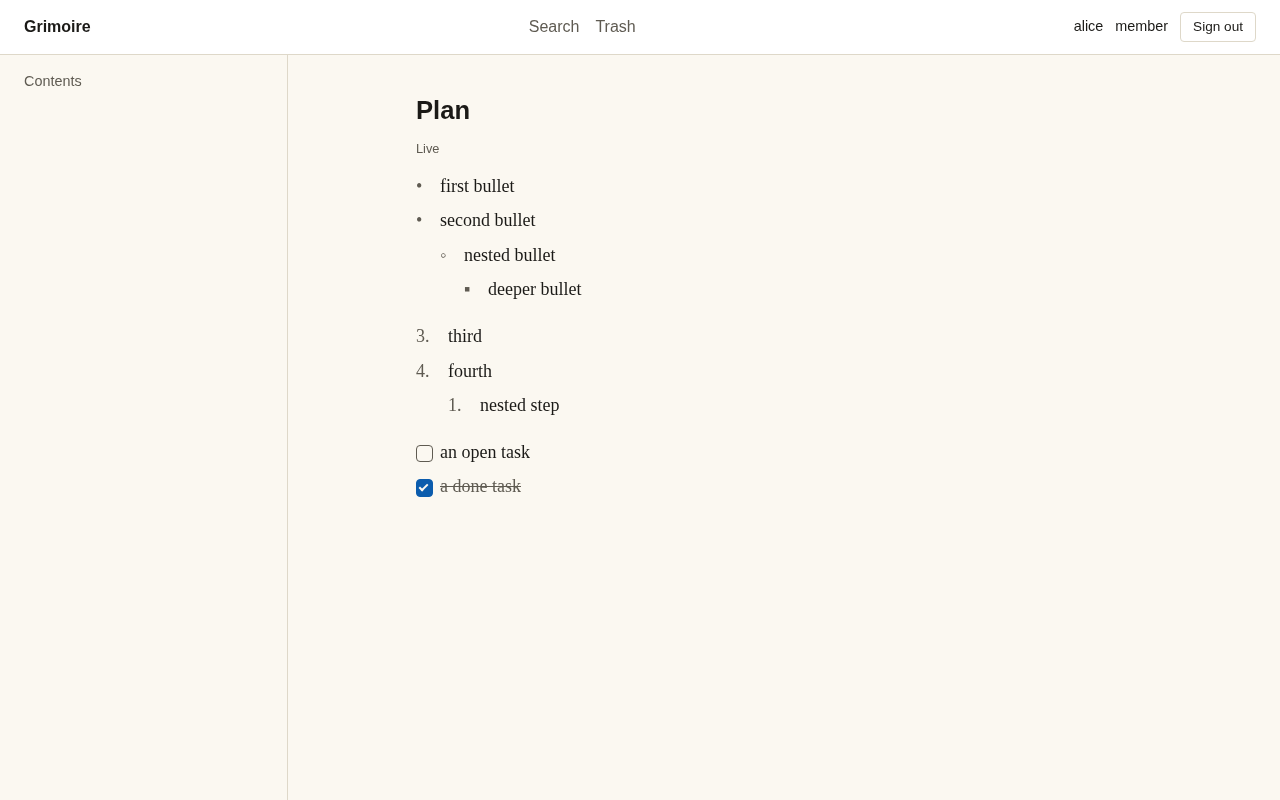
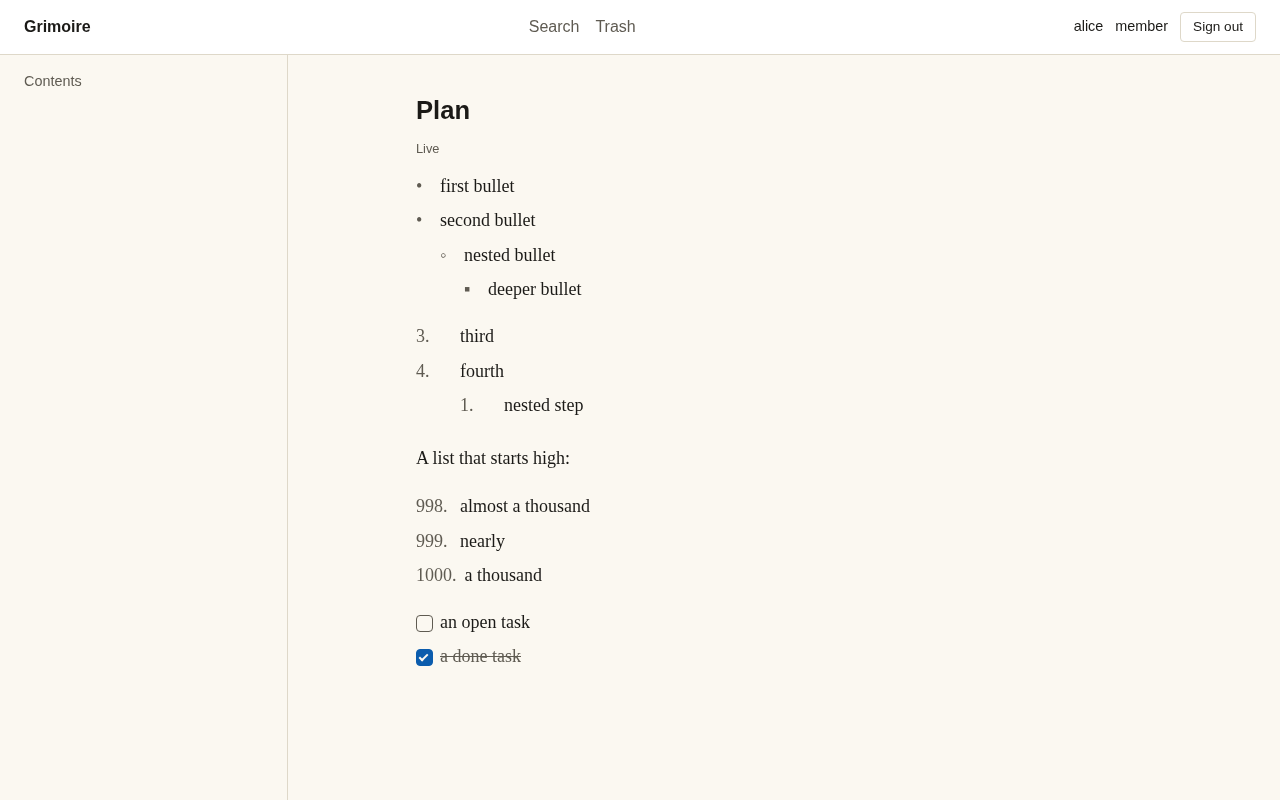
fix(web): give the number of an ordered item room to grow; retake the list screenshots

diff --git a/apps/web/test-e2e/editor/lists.spec.ts b/apps/web/test-e2e/editor/lists.spec.ts
@@ -14,6 +14,12 @@ const MARKDOWN = [
   '4. fourth',
   '   1. nested step',
   '',
+  'A list that starts high:',
+  '',
+  '998. almost a thousand',
+  '999. nearly',
+  '1000. a thousand',
+  '',
   '- [ ] an open task',
   '- [x] a done task',
   '',
@@ -39,6 +45,20 @@ test.describe('lists in the page text', () => {
       const numbered = editor.locator('li[data-list-type="ordered"]');
       expect(await marker(numbered.nth(0))).toBe('"3."');
       expect(await marker(numbered.nth(1))).toBe('"4."');
+      // A long number runs into nothing: the text starts after the whole label.
+      const long = editor.locator('li[data-label="1000."]');
+      expect(await marker(long)).toBe('"1000."');
+      const gap = await long.evaluate((li) => li.firstElementChild!.getBoundingClientRect().left - li.getBoundingClientRect().left);
+      const labelWidth = await long.evaluate((li) => {
+        const probe = document.createElement('span');
+        probe.textContent = getComputedStyle(li, '::before').content.replaceAll('"', '');
+        probe.style.cssText = 'position:absolute;visibility:hidden;white-space:nowrap;font-variant-numeric:tabular-nums';
+        li.append(probe);
+        const width = probe.getBoundingClientRect().width;
+        probe.remove();
+        return width;
+      });
+      expect(gap).toBeGreaterThanOrEqual(labelWidth);
       const tasks = editor.locator('li[data-item-type="task"]');
       expect(await marker(tasks.nth(0))).toBe('""'); // a box, not a bullet
       expect(await style(tasks.nth(0), 'border-top-style')).toBe('solid');

diff --git a/apps/web/src/editor/core/lists.css b/apps/web/src/editor/core/lists.css
@@ -8,7 +8,10 @@
 .page-text li > ul,
 .page-text li > ol { margin: var(--space-1) 0 0; }
 .page-text li { position: relative; padding-inline-start: var(--space-5); margin: 0 0 var(--space-1); }
-.page-text ol > li { padding-inline-start: calc(var(--space-5) + var(--space-2)); }
+/* Ordered items: the marker has a column of its own that is at least wide enough for three digits and grows for a longer number (a list can start at 998). */
+.page-text ol > li { display: grid; grid-template-columns: minmax(2em, max-content) minmax(0, 1fr); column-gap: var(--space-2); padding-inline-start: 0; }
+.page-text ol > li::before { position: static; grid-column: 1; grid-row: 1; white-space: nowrap; }
+.page-text ol > li > * { grid-column: 2; }
 .page-text li > p { margin: 0; line-height: 1.7; }
 .page-text li::before { content: attr(data-label); position: absolute; inset-inline-start: 0; color: var(--muted); font-variant-numeric: tabular-nums; }
 .page-text ul ul > li::before { content: '\25E6'; }

diff --git a/apps/web/test/editor/lists-css.test.ts b/apps/web/test/editor/lists-css.test.ts
@@ -24,4 +24,9 @@ describe('the list styles use the design tokens only', () => {
     expect(css).toContain("li[data-item-type='task']::before");
     expect(css).toContain("[data-checked='true']::after");
   });
+
+  it('gives the number of an ordered item a column that grows with it, so a long number never runs into the text', () => {
+    expect(css).toMatch(/ol > li \{[^}]*display: grid[^}]*max-content/);
+    expect(css).toMatch(/ol > li::before \{[^}]*position: static/);
+  });
 });
